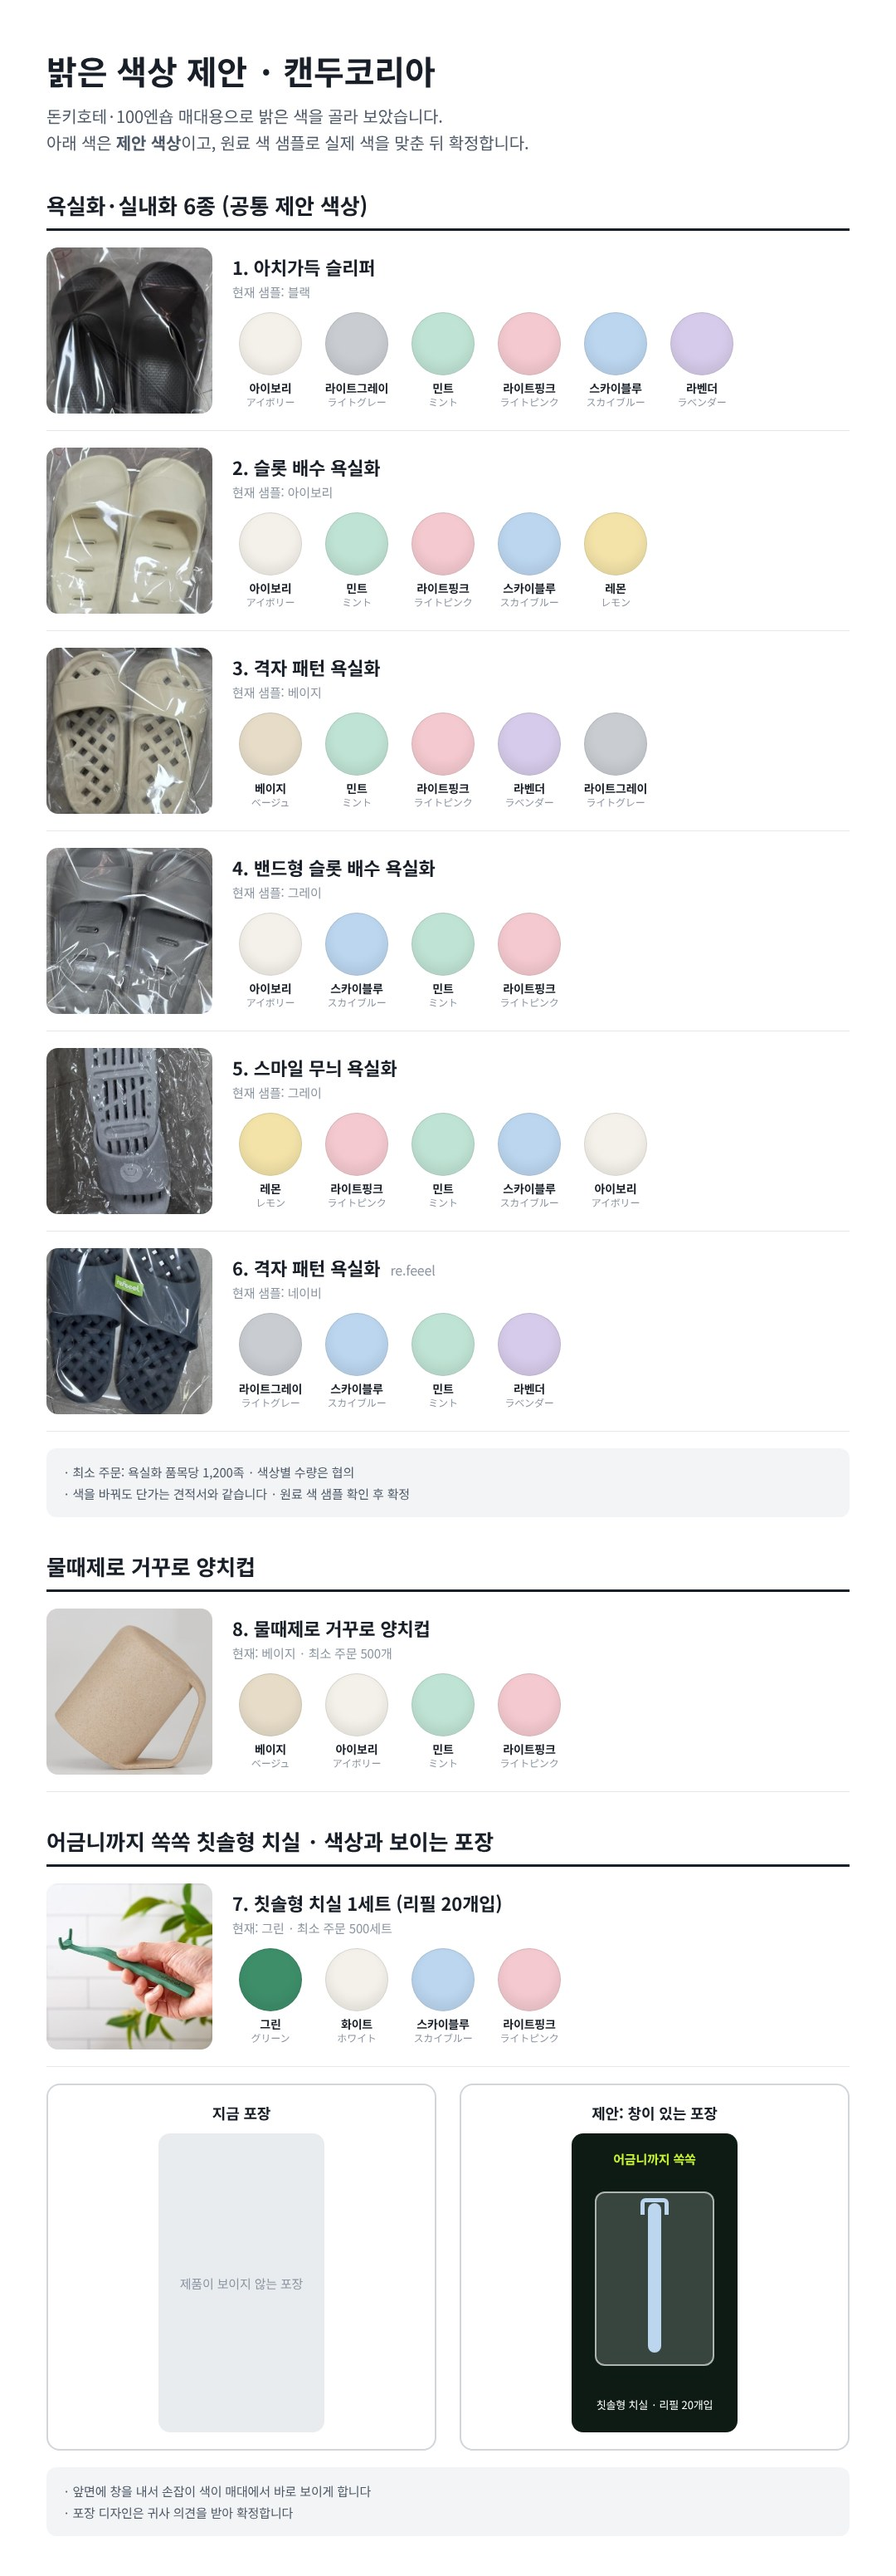
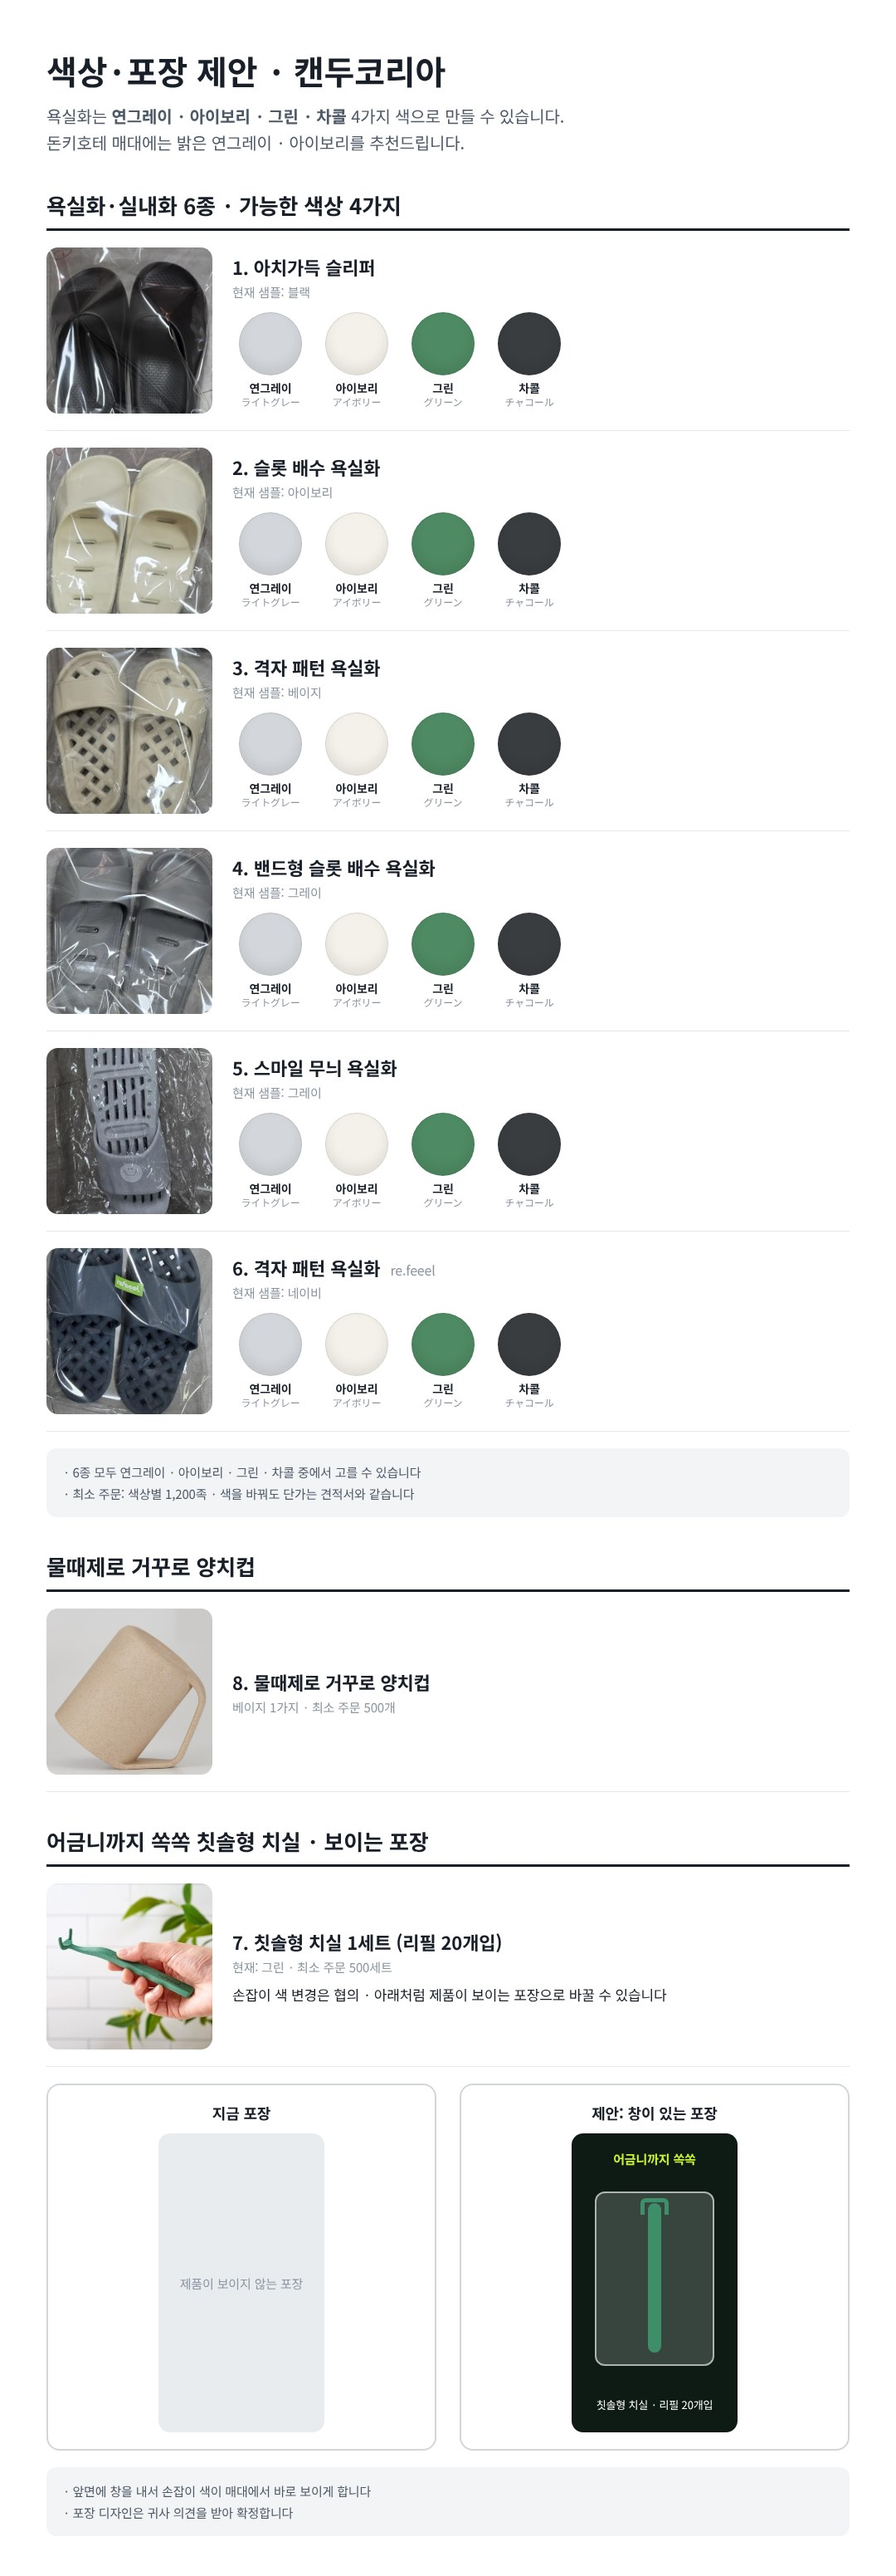
캔두 2차 회신: 대표 확인(색상 4종·MOQ 1,200·양치컵 단색) 반영
Claude-Session: https://claude.ai/code/session_01WbwBaiEPCZ7zKuMjGg7vqH

diff --git a/launch/rs/sales/candu-quote/color/color-proposal.html b/launch/rs/sales/candu-quote/color/color-proposal.html
@@ -30,37 +30,35 @@ h1{font-size:40px;font-weight:900}
 .window .bot{position:absolute;left:0;right:0;bottom:24px;color:#fff;font-size:13px}
 .flat{width:200px;height:360px;margin:0 auto;border-radius:14px;background:#E9ECEF;display:grid;place-items:center;color:#8B95A1;font-size:15px}
 </style></head><body><div class="page">
-<h1>밝은 색상 제안 · 캔두코리아</h1>
-<p class="lead">돈키호테·100엔숍 매대용으로 밝은 색을 골라 보았습니다.<br>아래 색은 <b>제안 색상</b>이고, 원료 색 샘플로 실제 색을 맞춘 뒤 확정합니다.</p>
+<h1>색상·포장 제안 · 캔두코리아</h1>
+<p class="lead">욕실화는 <b>연그레이 · 아이보리 · 그린 · 차콜</b> 4가지 색으로 만들 수 있습니다.<br>돈키호테 매대에는 밝은 연그레이 · 아이보리를 추천드립니다.</p>
 
-<div class="sec"><h2>욕실화·실내화 6종 (공통 제안 색상)</h2>
+<div class="sec"><h2>욕실화·실내화 6종 · 가능한 색상 4가지</h2>
   <div class="row"><img src="s1.jpg"><div><p class="name">1. 아치가득 슬리퍼</p><p class="now">현재 샘플: 블랙</p>
-    <div class="chips"><p class="chip"><i style="background:#F4F1EA"></i>아이보리<span>アイボリー</span></p><p class="chip"><i style="background:#C9CDD2"></i>라이트그레이<span>ライトグレー</span></p><p class="chip"><i style="background:#BFE3D4"></i>민트<span>ミント</span></p><p class="chip"><i style="background:#F4C9CF"></i>라이트핑크<span>ライトピンク</span></p><p class="chip"><i style="background:#BCD6F0"></i>스카이블루<span>スカイブルー</span></p><p class="chip"><i style="background:#D6CBEA"></i>라벤더<span>ラベンダー</span></p></div></div></div>
+    <div class="chips"><p class="chip"><i style="background:#D3D6DA"></i>연그레이<span>ライトグレー</span></p><p class="chip"><i style="background:#F4F1EA"></i>아이보리<span>アイボリー</span></p><p class="chip"><i style="background:#4E8A63"></i>그린<span>グリーン</span></p><p class="chip"><i style="background:#3A3D40"></i>차콜<span>チャコール</span></p></div></div></div>
   <div class="row"><img src="s2.jpg"><div><p class="name">2. 슬롯 배수 욕실화</p><p class="now">현재 샘플: 아이보리</p>
-    <div class="chips"><p class="chip"><i style="background:#F4F1EA"></i>아이보리<span>アイボリー</span></p><p class="chip"><i style="background:#BFE3D4"></i>민트<span>ミント</span></p><p class="chip"><i style="background:#F4C9CF"></i>라이트핑크<span>ライトピンク</span></p><p class="chip"><i style="background:#BCD6F0"></i>스카이블루<span>スカイブルー</span></p><p class="chip"><i style="background:#F3E3A9"></i>레몬<span>レモン</span></p></div></div></div>
+    <div class="chips"><p class="chip"><i style="background:#D3D6DA"></i>연그레이<span>ライトグレー</span></p><p class="chip"><i style="background:#F4F1EA"></i>아이보리<span>アイボリー</span></p><p class="chip"><i style="background:#4E8A63"></i>그린<span>グリーン</span></p><p class="chip"><i style="background:#3A3D40"></i>차콜<span>チャコール</span></p></div></div></div>
   <div class="row"><img src="s3.jpg"><div><p class="name">3. 격자 패턴 욕실화</p><p class="now">현재 샘플: 베이지</p>
-    <div class="chips"><p class="chip"><i style="background:#E6DCC8"></i>베이지<span>ベージュ</span></p><p class="chip"><i style="background:#BFE3D4"></i>민트<span>ミント</span></p><p class="chip"><i style="background:#F4C9CF"></i>라이트핑크<span>ライトピンク</span></p><p class="chip"><i style="background:#D6CBEA"></i>라벤더<span>ラベンダー</span></p><p class="chip"><i style="background:#C9CDD2"></i>라이트그레이<span>ライトグレー</span></p></div></div></div>
+    <div class="chips"><p class="chip"><i style="background:#D3D6DA"></i>연그레이<span>ライトグレー</span></p><p class="chip"><i style="background:#F4F1EA"></i>아이보리<span>アイボリー</span></p><p class="chip"><i style="background:#4E8A63"></i>그린<span>グリーン</span></p><p class="chip"><i style="background:#3A3D40"></i>차콜<span>チャコール</span></p></div></div></div>
   <div class="row"><img src="s4.jpg"><div><p class="name">4. 밴드형 슬롯 배수 욕실화</p><p class="now">현재 샘플: 그레이</p>
-    <div class="chips"><p class="chip"><i style="background:#F4F1EA"></i>아이보리<span>アイボリー</span></p><p class="chip"><i style="background:#BCD6F0"></i>스카이블루<span>スカイブルー</span></p><p class="chip"><i style="background:#BFE3D4"></i>민트<span>ミント</span></p><p class="chip"><i style="background:#F4C9CF"></i>라이트핑크<span>ライトピンク</span></p></div></div></div>
+    <div class="chips"><p class="chip"><i style="background:#D3D6DA"></i>연그레이<span>ライトグレー</span></p><p class="chip"><i style="background:#F4F1EA"></i>아이보리<span>アイボリー</span></p><p class="chip"><i style="background:#4E8A63"></i>그린<span>グリーン</span></p><p class="chip"><i style="background:#3A3D40"></i>차콜<span>チャコール</span></p></div></div></div>
   <div class="row"><img src="s5.jpg"><div><p class="name">5. 스마일 무늬 욕실화</p><p class="now">현재 샘플: 그레이</p>
-    <div class="chips"><p class="chip"><i style="background:#F3E3A9"></i>레몬<span>レモン</span></p><p class="chip"><i style="background:#F4C9CF"></i>라이트핑크<span>ライトピンク</span></p><p class="chip"><i style="background:#BFE3D4"></i>민트<span>ミント</span></p><p class="chip"><i style="background:#BCD6F0"></i>스카이블루<span>スカイブルー</span></p><p class="chip"><i style="background:#F4F1EA"></i>아이보리<span>アイボリー</span></p></div></div></div>
+    <div class="chips"><p class="chip"><i style="background:#D3D6DA"></i>연그레이<span>ライトグレー</span></p><p class="chip"><i style="background:#F4F1EA"></i>아이보리<span>アイボリー</span></p><p class="chip"><i style="background:#4E8A63"></i>그린<span>グリーン</span></p><p class="chip"><i style="background:#3A3D40"></i>차콜<span>チャコール</span></p></div></div></div>
   <div class="row"><img src="s6.jpg"><div><p class="name">6. 격자 패턴 욕실화 <small>re.feeel</small></p><p class="now">현재 샘플: 네이비</p>
-    <div class="chips"><p class="chip"><i style="background:#C9CDD2"></i>라이트그레이<span>ライトグレー</span></p><p class="chip"><i style="background:#BCD6F0"></i>스카이블루<span>スカイブルー</span></p><p class="chip"><i style="background:#BFE3D4"></i>민트<span>ミント</span></p><p class="chip"><i style="background:#D6CBEA"></i>라벤더<span>ラベンダー</span></p></div></div></div>
-  <p class="note">· 최소 주문: 욕실화 품목당 1,200족 · 색상별 수량은 협의<br>· 색을 바꿔도 단가는 견적서와 같습니다 · 원료 색 샘플 확인 후 확정</p>
+    <div class="chips"><p class="chip"><i style="background:#D3D6DA"></i>연그레이<span>ライトグレー</span></p><p class="chip"><i style="background:#F4F1EA"></i>아이보리<span>アイボリー</span></p><p class="chip"><i style="background:#4E8A63"></i>그린<span>グリーン</span></p><p class="chip"><i style="background:#3A3D40"></i>차콜<span>チャコール</span></p></div></div></div>
+  <p class="note">· 6종 모두 연그레이 · 아이보리 · 그린 · 차콜 중에서 고를 수 있습니다<br>· 최소 주문: 색상별 1,200족 · 색을 바꿔도 단가는 견적서와 같습니다</p>
 </div>
 
 <div class="sec"><h2>물때제로 거꾸로 양치컵</h2>
-  <div class="row"><img src="s8.jpg"><div><p class="name">8. 물때제로 거꾸로 양치컵</p><p class="now">현재: 베이지 · 최소 주문 500개</p>
-    <div class="chips"><p class="chip"><i style="background:#E6DCC8"></i>베이지<span>ベージュ</span></p><p class="chip"><i style="background:#F4F1EA"></i>아이보리<span>アイボリー</span></p><p class="chip"><i style="background:#BFE3D4"></i>민트<span>ミント</span></p><p class="chip"><i style="background:#F4C9CF"></i>라이트핑크<span>ライトピンク</span></p></div></div></div>
+  <div class="row"><img src="s8.jpg"><div><p class="name">8. 물때제로 거꾸로 양치컵</p><p class="now">베이지 1가지 · 최소 주문 500개</p></div></div>
 </div>
 
-<div class="sec"><h2>어금니까지 쏙쏙 칫솔형 치실 · 색상과 보이는 포장</h2>
-  <div class="row"><img src="s7.jpg"><div><p class="name">7. 칫솔형 치실 1세트 (리필 20개입)</p><p class="now">현재: 그린 · 최소 주문 500세트</p>
-    <div class="chips"><p class="chip"><i style="background:#3E8E6A"></i>그린<span>グリーン</span></p><p class="chip"><i style="background:#F4F1EA"></i>화이트<span>ホワイト</span></p><p class="chip"><i style="background:#BCD6F0"></i>스카이블루<span>スカイブルー</span></p><p class="chip"><i style="background:#F4C9CF"></i>라이트핑크<span>ライトピンク</span></p></div></div></div>
+<div class="sec"><h2>어금니까지 쏙쏙 칫솔형 치실 · 보이는 포장</h2>
+  <div class="row"><img src="s7.jpg"><div><p class="name">7. 칫솔형 치실 1세트 (리필 20개입)</p><p class="now">현재: 그린 · 최소 주문 500세트</p><p class="now" style="margin-top:10px;color:#191F28;font-size:17px">손잡이 색 변경은 협의 · 아래처럼 제품이 보이는 포장으로 바꿀 수 있습니다</p></div></div>
   <div class="pack">
     <div class="box"><h3>지금 포장</h3><div class="flat">제품이 보이지 않는 포장</div></div>
     <div class="box"><h3>제안: 창이 있는 포장</h3>
-      <div class="window"><p class="top">어금니까지 쏙쏙</p><div class="hole"></div><div class="head" style="border-color:#BCD6F0"></div><div class="stick" style="background:#BCD6F0"></div><p class="bot">칫솔형 치실 · 리필 20개입</p></div>
+      <div class="window"><p class="top">어금니까지 쏙쏙</p><div class="hole"></div><div class="head" style="border-color:#3E8E6A"></div><div class="stick" style="background:#3E8E6A"></div><p class="bot">칫솔형 치실 · 리필 20개입</p></div>
     </div>
   </div>
   <p class="note">· 앞면에 창을 내서 손잡이 색이 매대에서 바로 보이게 합니다<br>· 포장 디자인은 귀사 의견을 받아 확정합니다</p>

diff --git a/launch/rs/sales/candu-quote/메일초안_캔두코리아_2차회신_2026-11-28.md b/launch/rs/sales/candu-quote/메일초안_캔두코리아_2차회신_2026-11-28.md
@@ -34,17 +34,18 @@
 - 한 번에 찍어 내는 통짜 구조라 가볍고, 물로 씻기 쉽습니다.
 - 욕실, 베란다, 실내에서 함께 신을 수 있습니다.
 
-**3. 밝은 색상 (첨부 그림)**
-돈키호테에 맞게 밝은 색으로 골라 그림으로 만들었습니다.
-아이보리, 라이트그레이, 민트, 라이트핑크, 스카이블루, 라벤더, 레몬 같은 색이 가능합니다.
-원료 색 샘플로 실제 색을 맞춘 뒤 확정하며, 색을 바꿔도 단가는 견적서와 같습니다.
+**3. 욕실화 색상 (첨부 그림)**
+욕실화 6종 모두 **연그레이, 아이보리, 그린, 차콜** 4가지 색으로 만들 수 있습니다.
+돈키호테 매대에는 밝은 연그레이와 아이보리를 추천드립니다.
+색상별 최소 주문은 1,200족이고, 색을 바꿔도 단가는 견적서와 같습니다.
 
-**4. 칫솔형 치실 색상과 포장**
-치실도 밝은 색으로 바꿀 수 있고, 앞면에 창을 내서 제품이 보이는 포장으로 바꿀 수 있습니다. 첨부 그림 맨 아래에 예시를 넣었습니다.
+**4. 양치컵과 칫솔형 치실**
+양치컵은 좋게 봐 주셔서 감사합니다. 지금의 베이지 한 가지로 공급드립니다.
+칫솔형 치실은 앞면에 창을 내서 제품이 보이는 포장으로 바꿀 수 있습니다. 첨부 그림 맨 아래에 예시를 넣었고, 손잡이 색은 따로 협의드리겠습니다.
 
 **5. 가격과 최소 주문 수량**
 다시 보내 드린 견적서와 같습니다.
-- 욕실화 6종: 1,900원 ~ 2,900원, 품목당 1,200족
+- 욕실화 6종: 1,900원 ~ 2,900원, 색상별 1,200족
 - 칫솔형 치실 1세트(리필 20개입): 3,900원, 500세트
 - 물때제로 거꾸로 양치컵: 1,980원, 500개
 (모두 부가세 별도, OPP 포장재는 귀사에서 보내 주시는 기준입니다.)
@@ -62,8 +63,8 @@
 
 ---
 
-## 보내기 전 대표 확인
-- [ ] 2번 특징(배수 구멍·통짜 구조·겸용)이 6종 모두에 맞는지. 소재명(PVC/EVA)을 넣을지
-- [ ] 3번 색상: 실제로 낼 수 있는 색인지, **색상별 최소 수량**(예: 색당 600족)을 따로 적을지
-- [ ] 양치컵(CXP 소재)도 색 변경이 가능한지. 안 되면 그림에서 양치컵 색 칸을 빼고 다시 만듦
-- [ ] 6번: 쿼드그립 워킹화(국내 특허 출원·디자인 등록)를 지금 소개할지, 해외 출원 뒤로 미룰지
+## 대표 확인 결과 (11/28)
+- 욕실화 특징: 맞음
+- 욕실화 색상: 연그레이 · 아이보리 · 그린 · 차콜, 색상별 MOQ 1,200족
+- 양치컵: 색 변경 없이 베이지만
+- 특허 신제품(워킹화): 해외 출원 뒤로 미룸 → 메일 6번 그대로
